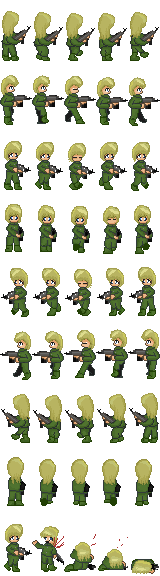
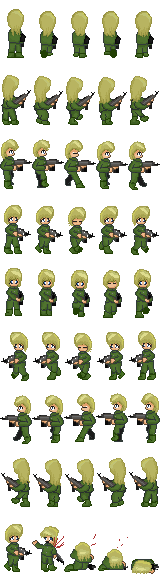
Better Entity animations; better loitering

diff --git a/Entity.cpp b/Entity.cpp
@@ -2,17 +2,21 @@
 
 const uint16_t GEN_VILLAGERS = 2048;
 const uint16_t GEN_ZOMBIES = 128;
+const uint8_t ANI_INTERVAL = 30;
 
 
 class Entity {
   public:
-    double pos_X = 0, pos_Y = 0; // Entity position
-    uint16_t targ_X = 0, targ_Y = 0; //Target position
-    float rotation = 0; // As degrees
-    float health = 255, max_health = 255, speed = .1, attack = 1;
-    const uint8_t idle = 10, run = 20;
     uint8_t type; // 0 Villager, 1 Zombie
     uint16_t index_in_array;
+
+    double pos_X = 0, pos_Y = 0; // Entity position
+    uint16_t targ_X = 0, targ_Y = 0; //Target position
+    float rot = 0; // As degrees
+    uint8_t frame = 0;
+    bool had_moved = true;
+
+    float health = 255, max_health = 255, speed = .01, attack = 1;
 
     Entity (uint16_t, uint8_t, double, double);
     Entity (); //For empty initialisation
@@ -20,6 +24,11 @@ class Entity {
     void think ();
     void moveTowards (uint16_t, uint16_t);
     void move ();
+    void animate ();
+
+  private:
+      void tryDir (float, float);
+      float animate_clock = 0;
 };
 
 Entity::Entity (uint16_t index_in_array, uint8_t type, double pos_X, double pos_Y)
@@ -28,6 +37,7 @@ Entity::Entity (uint16_t index_in_array, uint8_t type, double pos_X, double pos_
     this->type = type;
     this->pos_X = this->targ_X = pos_X;
     this->pos_Y = this->targ_X = pos_Y;
+    this->animate_clock = ri(0, ANI_INTERVAL);
 }
 
 Entity::Entity () { }
@@ -36,7 +46,7 @@ Entity::Entity () { }
 void Entity::think ()
 {
   //Loiter
-    moveTowards(pos_X + ri(-2, 2), pos_Y + ri(-2, 2));
+    if (rb(.1)) { moveTowards(pos_X + ri(-2, 2), pos_Y + ri(-2, 2)); }
 }
 
 void Entity::moveTowards (uint16_t x, uint16_t y)
@@ -45,13 +55,32 @@ void Entity::moveTowards (uint16_t x, uint16_t y)
     targ_Y = y;
 }
 
+void Entity::tryDir (float dir_X, float dir_Y)
+{
+    pos_X += dir_X;
+    pos_Y += dir_Y;
+}
+
 void Entity::move ()
 {
-    float angle = vecToAng(targ_X - pos_X, targ_Y - pos_Y);
-    float dir_X, dir_Y;
-    angToVec(angle, dir_X, dir_Y);
-    pos_X += speed * dir_X;
-    pos_Y += speed * dir_Y;
+    if (abs(uint16_t(pos_X + .5) - targ_X) || abs(uint16_t(pos_Y + .5) - targ_Y)) { //Need to move?
+        rot = vecToAng(targ_X - pos_X, targ_Y - pos_Y);
+        float dir_X, dir_Y;
+        angToVec(rot, dir_X, dir_Y);
+        tryDir(speed * dir_X, speed * dir_Y);
+        had_moved = true;
+    } else {
+        frame = 0;
+    }
+}
+
+void Entity::animate ()
+{
+    if (++animate_clock > ANI_INTERVAL) {
+        animate_clock = 0;
+        if (had_moved) { ++frame; }
+        had_moved = false;
+    }
 }
 
 std::vector<Entity*> entity = std::vector<Entity*>();

diff --git a/main.cpp b/main.cpp
@@ -14,7 +14,6 @@ int main ()
 
   //Declare asset thingies
     sf::Font fnt_arial;
-    sf::Text txt_HUD;
     sf::Image biomeTexImg;
     sf::Texture biomeTexture;
     sf::Sprite biomeTile;
@@ -48,6 +47,7 @@ int main ()
         std::cout << "Couldn't load Assets/zombie.png" << std::endl;
     }
     txt_HUD.setFont(fnt_arial);
+    txt_HUD.setCharacterSize(12);
     biomeTexture.loadFromImage(biomeTexImg);
     biomeTile.setTexture(biomeTexture);
     biomeTexture.setSmooth(false);
@@ -91,9 +91,9 @@ int main ()
     }
   //Move player to suitable location (stone)
     do {
-        entity[0]->pos_X = ri(0, MAP_W);
-        entity[0]->pos_Y = ri(0, MAP_H);
-    } while (getBiome(entity[0]->pos_X, entity[0]->pos_Y));
+        protag_X = ri(0, MAP_W);
+        protag_Y = ri(0, MAP_H);
+    } while (getBiome(protag_X, protag_Y));
 
   //Start game-loop
     uint32_t game_time = 0;
@@ -136,12 +136,10 @@ int main ()
         doDISPLAY(game_time, window, biomeTile, spriteTile, villagerTile, zombieTile, txt_HUD, !(game_time % 50));
 
       //Entity stuff
-        bool to_think = !(game_time % 100);
-        for (uint16_t e = 0; e < entity.size(); ++e) {
-            if (to_think) {
-                entity[e]->think();
-            }
+        for (uint16_t e = 1; e < entity.size(); ++e) {
+            if (rb(0.01)) { entity[e]->think(); }
             entity[e]->move();
+            entity[e]->animate();
         }
 
         sf::sleep(sf::milliseconds(10));

diff --git a/display.cpp b/display.cpp
@@ -3,6 +3,9 @@
 #include "Entity.cpp"
 
 
+sf::Text txt_HUD;
+
+
 const uint8_t TILE_SCALE = 32;
 const uint8_t TILE_W = 64, TILE_H = 32;
 const uint8_t SPRITE_W = 64, SPRITE_H = 64;
@@ -38,13 +41,21 @@ void getSpriteTex (uint8_t sprite_code, uint16_t x, uint16_t y, uint16_t &tex_X,
 
 void getVillagerTex (Entity* e, uint16_t &tex_X, uint16_t &tex_Y)
 {
-    tex_X = 0;
-    tex_Y = 0;
+    if (e->frame > 4) { e->frame = 1; }
+    //Calculate the angle to show the sprite
+    uint16_t a = e->rot;
+    a /= 45; //Every 45 degrees, the next texture in the sheet is used (eg. 90 becomes 2)
+    tex_X = ENTITY_W * e->frame;
+    tex_Y = ENTITY_H * a;
 }
 void getZombieTex (Entity* e, uint16_t &tex_X, uint16_t &tex_Y)
 {
-    tex_X = 0;
-    tex_Y = 0;
+    if (e->frame > 4) { e->frame = 1; }
+    //Calculate the angle to show the sprite
+    uint16_t a = e->rot;
+    a /= 45; //Every 45 degrees, the next texture in the sheet is used (eg. 90 becomes 2)
+    tex_X = ENTITY_W * e->frame;
+    tex_Y = ENTITY_H * a;
 }
 
 
@@ -222,6 +233,9 @@ void drawEntities (uint32_t game_time, sf::RenderWindow &window, sf::Sprite vill
                     window.draw(zombieTile);
                     break;
             }
+txt_HUD.setPosition(sf::Vector2f(draw_X, draw_Y));
+txt_HUD.setString(std::to_string(uint16_t(entity[e]->rot)));
+window.draw(txt_HUD);
         }
     }
 }
